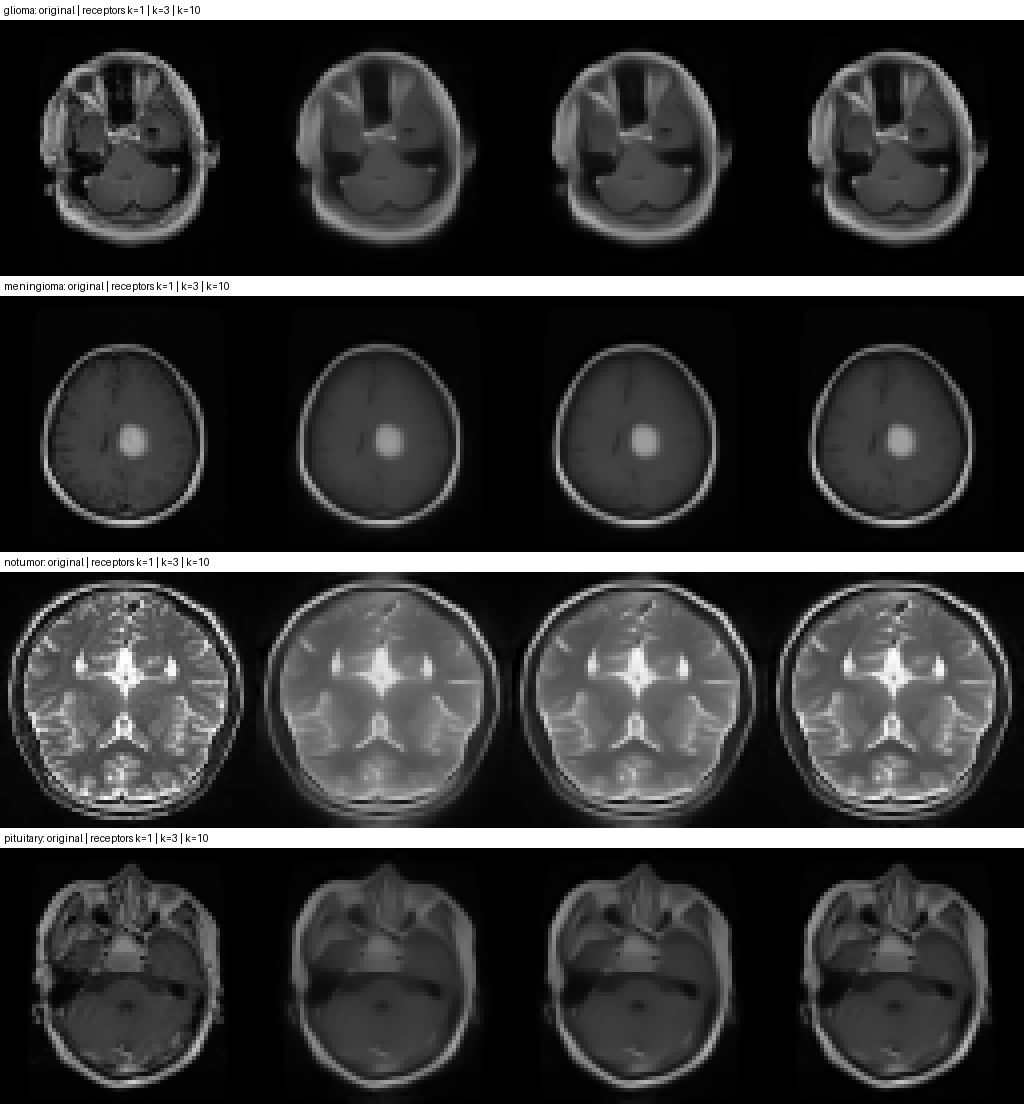
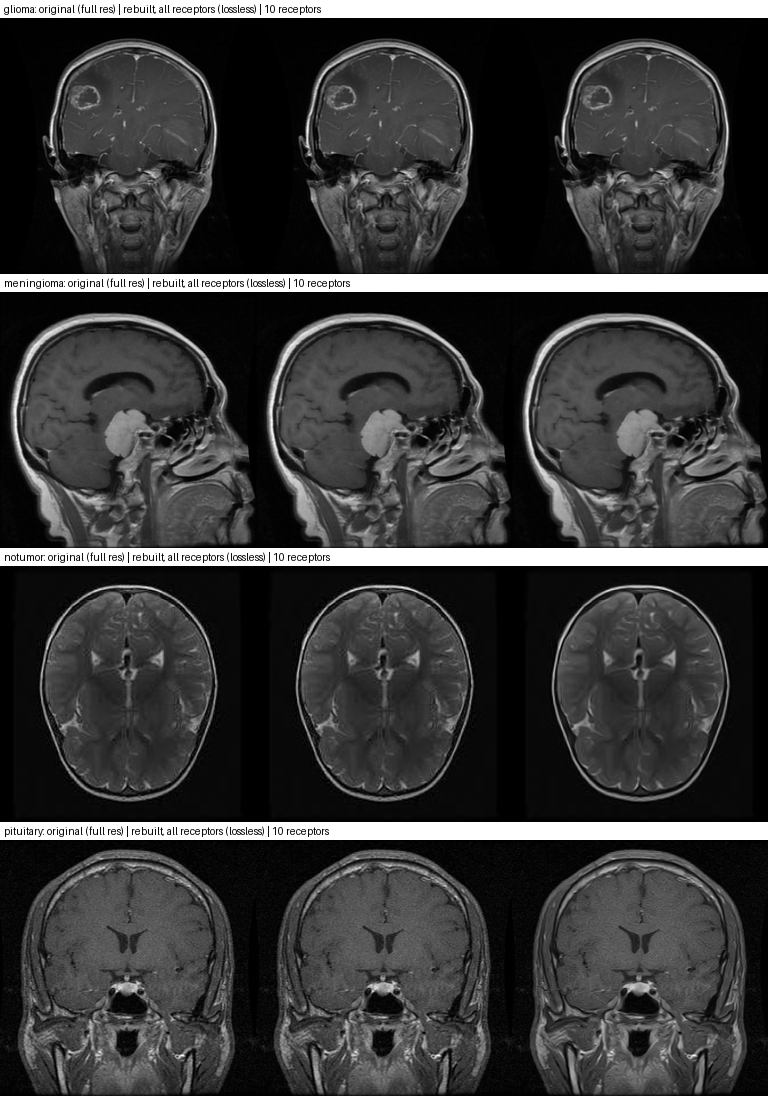
Fix lossy reconstruction: exact rebuild from all receptor responses
Earlier reconstruction kept only 1-10 receptors per 36-pixel window and
compared against a 64px downscale. Add ReceptorField.sense/reconstruct:
all receptors give a lossless rebuild of full-resolution MRIs (0 gray-level
error); keep=k gives lossy compression.

Claude-Session: https://claude.ai/code/session_018kcMEG6z6uZTjKUhvuqLAN

diff --git a/mycelia/receptor_memory.py b/mycelia/receptor_memory.py
@@ -82,6 +82,39 @@ class ReceptorField:
             out += [f[np.ix_(a, b)].mean((0, 1)) for a in cut for b in cut]
         return np.concatenate(out).astype(np.float32)
 
+    def sense(self, img):
+        """Unpooled receptor responses plus each window's brightness and contrast."""
+        c = self.config; p = self._patches(img); g = p.shape
+        flat = p.reshape(-1, c.patch * c.patch)
+        mean = flat.mean(1, keepdims=True); sd = np.sqrt(flat.var(1, keepdims=True) + .01)
+        responses = (((flat - mean) / sd - self.mu) @ self.whiten) @ self.receptors.T
+        return {'responses': responses, 'mean': mean, 'sd': sd, 'grid': g[:2], 'shape': np.shape(img)}
+
+    def reconstruct(self, sensed, keep=None):
+        """Rebuild the image from sensed responses.
+
+        keep=None uses every receptor; the receptors span all patch shapes, so
+        this is exact (lossless after uint8 rounding). keep=k uses only the k
+        strongest receptors per window (lossy, k >= patch*patch is exact).
+        """
+        c = self.config; r = sensed['responses']; d = self.receptors
+        if keep is None:
+            z = r @ np.linalg.pinv(d.T)
+        else:
+            idx = np.argsort(-np.abs(r), 1)[:, :keep]
+            z = np.empty((len(r), d.shape[1]))
+            for i, sel in enumerate(idx):
+                coef, *_ = np.linalg.lstsq(d[sel] @ d[sel].T, r[i, sel], rcond=None)
+                z[i] = coef @ d[sel]
+        patches = ((z @ np.linalg.inv(self.whiten)) + self.mu) * sensed['sd'] + sensed['mean']
+        out = np.zeros(sensed['shape']); count = np.zeros(sensed['shape'])
+        gy, gx = sensed['grid']; patches = patches.reshape(gy, gx, c.patch, c.patch)
+        for dy in range(c.patch):
+            for dx in range(c.patch):
+                ys = slice(dy, dy + (gy - 1) * c.stride + 1, c.stride); xs = slice(dx, dx + (gx - 1) * c.stride + 1, c.stride)
+                out[ys, xs] += patches[:, :, dy, dx]; count[ys, xs] += 1
+        return np.clip(out / np.maximum(count, 1), 0, 1)
+
     def encode_many(self, images):
         return np.stack([self.encode(i) for i in images])
 

diff --git a/research/receptor-memory-exploration/recon_fullres.py b/research/receptor-memory-exploration/recon_fullres.py
@@ -1,0 +1,24 @@
+"""Lossless check: full-resolution test MRIs rebuilt from trained receptor responses."""
+import sys, pickle, numpy as np
+from pathlib import Path
+from PIL import Image, ImageDraw
+from mycelia.receptor_memory import ReceptorField, ReceptorConfig
+dataset, dictionary, out = Path(sys.argv[1]), sys.argv[2], sys.argv[3]
+m = pickle.load(open(dictionary, 'rb'))
+field = ReceptorField(ReceptorConfig()); field.mu, field.whiten, field.receptors = m['mu'], m['Wz'], m['D']
+files = [next((dataset / 'Testing' / c).glob('*.jpg')) for c in ('glioma', 'meningioma', 'notumor', 'pituitary')]
+rows = []
+for f in files:
+    img = np.asarray(Image.open(f).convert('L'), dtype=np.float64) / 255
+    s = field.sense(img)
+    full = field.reconstruct(s); part = field.reconstruct(s, keep=10)
+    err = int(np.abs(np.round(full * 255) - np.round(img * 255)).max())
+    psnr = 10 * np.log10(1 / np.mean((img - part) ** 2))
+    print(f'{f.name} {img.shape}: all receptors max error {err} gray levels (lossless={err == 0}); 10 receptors PSNR {psnr:.1f} dB')
+    rows.append([img, full, part, f.parent.name])
+W = 256; canvas = Image.new('L', (3 * W, 4 * (W + 18)), 255); dr = ImageDraw.Draw(canvas)
+for r, (a, b, c, name) in enumerate(rows):
+    for col, im in enumerate((a, b, c)):
+        canvas.paste(Image.fromarray(np.round(im * 255).astype('uint8')).resize((W, W)), (col * W, r * (W + 18) + 18))
+    dr.text((4, r * (W + 18) + 3), f'{name}: original (full res) | rebuilt, all receptors (lossless) | 10 receptors', fill=0)
+canvas.save(out)

diff --git a/tests/test_receptor_memory.py b/tests/test_receptor_memory.py
@@ -24,3 +24,12 @@ def test_unsupervised_field_and_teach_only_memory_generalize():
 def test_field_is_deterministic():
     x, _ = images(0, 10); c = ReceptorConfig(receptors=8, patch=4, patches_per_image=5, iterations=3)
     assert np.array_equal(ReceptorField(c).fit(x).receptors, ReceptorField(c).fit(x).receptors)
+
+
+def test_reconstruction_is_lossless_with_all_receptors_and_lossy_with_few():
+    x, _ = images(0, 10)
+    field = ReceptorField(ReceptorConfig(receptors=40, patch=4, patches_per_image=10, iterations=3)).fit(x)
+    img = (np.round(np.random.default_rng(3).random((23, 31)) * 255) / 255)  # any size
+    full = field.reconstruct(field.sense(img))
+    assert np.array_equal(np.round(full * 255), np.round(img * 255))
+    assert np.abs(field.reconstruct(field.sense(img), keep=2) - img).max() > 1 / 255

diff --git a/RECEPTOR-MEMORY.md b/RECEPTOR-MEMORY.md
@@ -123,3 +123,21 @@ Runs in about 30 minutes on 4 CPU cores with 16 GB RAM, and writes
 
 Code: `mycelia/receptor_memory.py` (method), `tools/receptor_memory_mri.py`
 (experiment), `tests/test_receptor_memory.py`.
+
+## Image reconstruction
+
+`ReceptorField.sense(img)` records every 6×6 window's receptor responses plus
+its brightness and contrast; `ReceptorField.reconstruct(sensed, keep=None)`
+rebuilds the image.
+
+- **All receptors (default): lossless.** The 800 receptors span every 6×6
+  patch shape, so the rebuild is exact. Full-resolution Testing MRIs
+  (225–512 px) come back with **0 gray-level error**.
+- `keep=k`: only the k strongest receptors per window (lossy compression):
+  10 receptors gave 38–48 dB at full resolution; k ≥ 36 is exact.
+
+Audit of the first attempt (`research/.../recon.py`): it was lossy because it
+kept only 1–10 receptors per 36-pixel window and compared against a 64×64
+downscale, not the original. The classifier's pooled memory cannot rebuild
+images: regional averaging discards position inside each region.
+Script: `research/receptor-memory-exploration/recon_fullres.py`.
